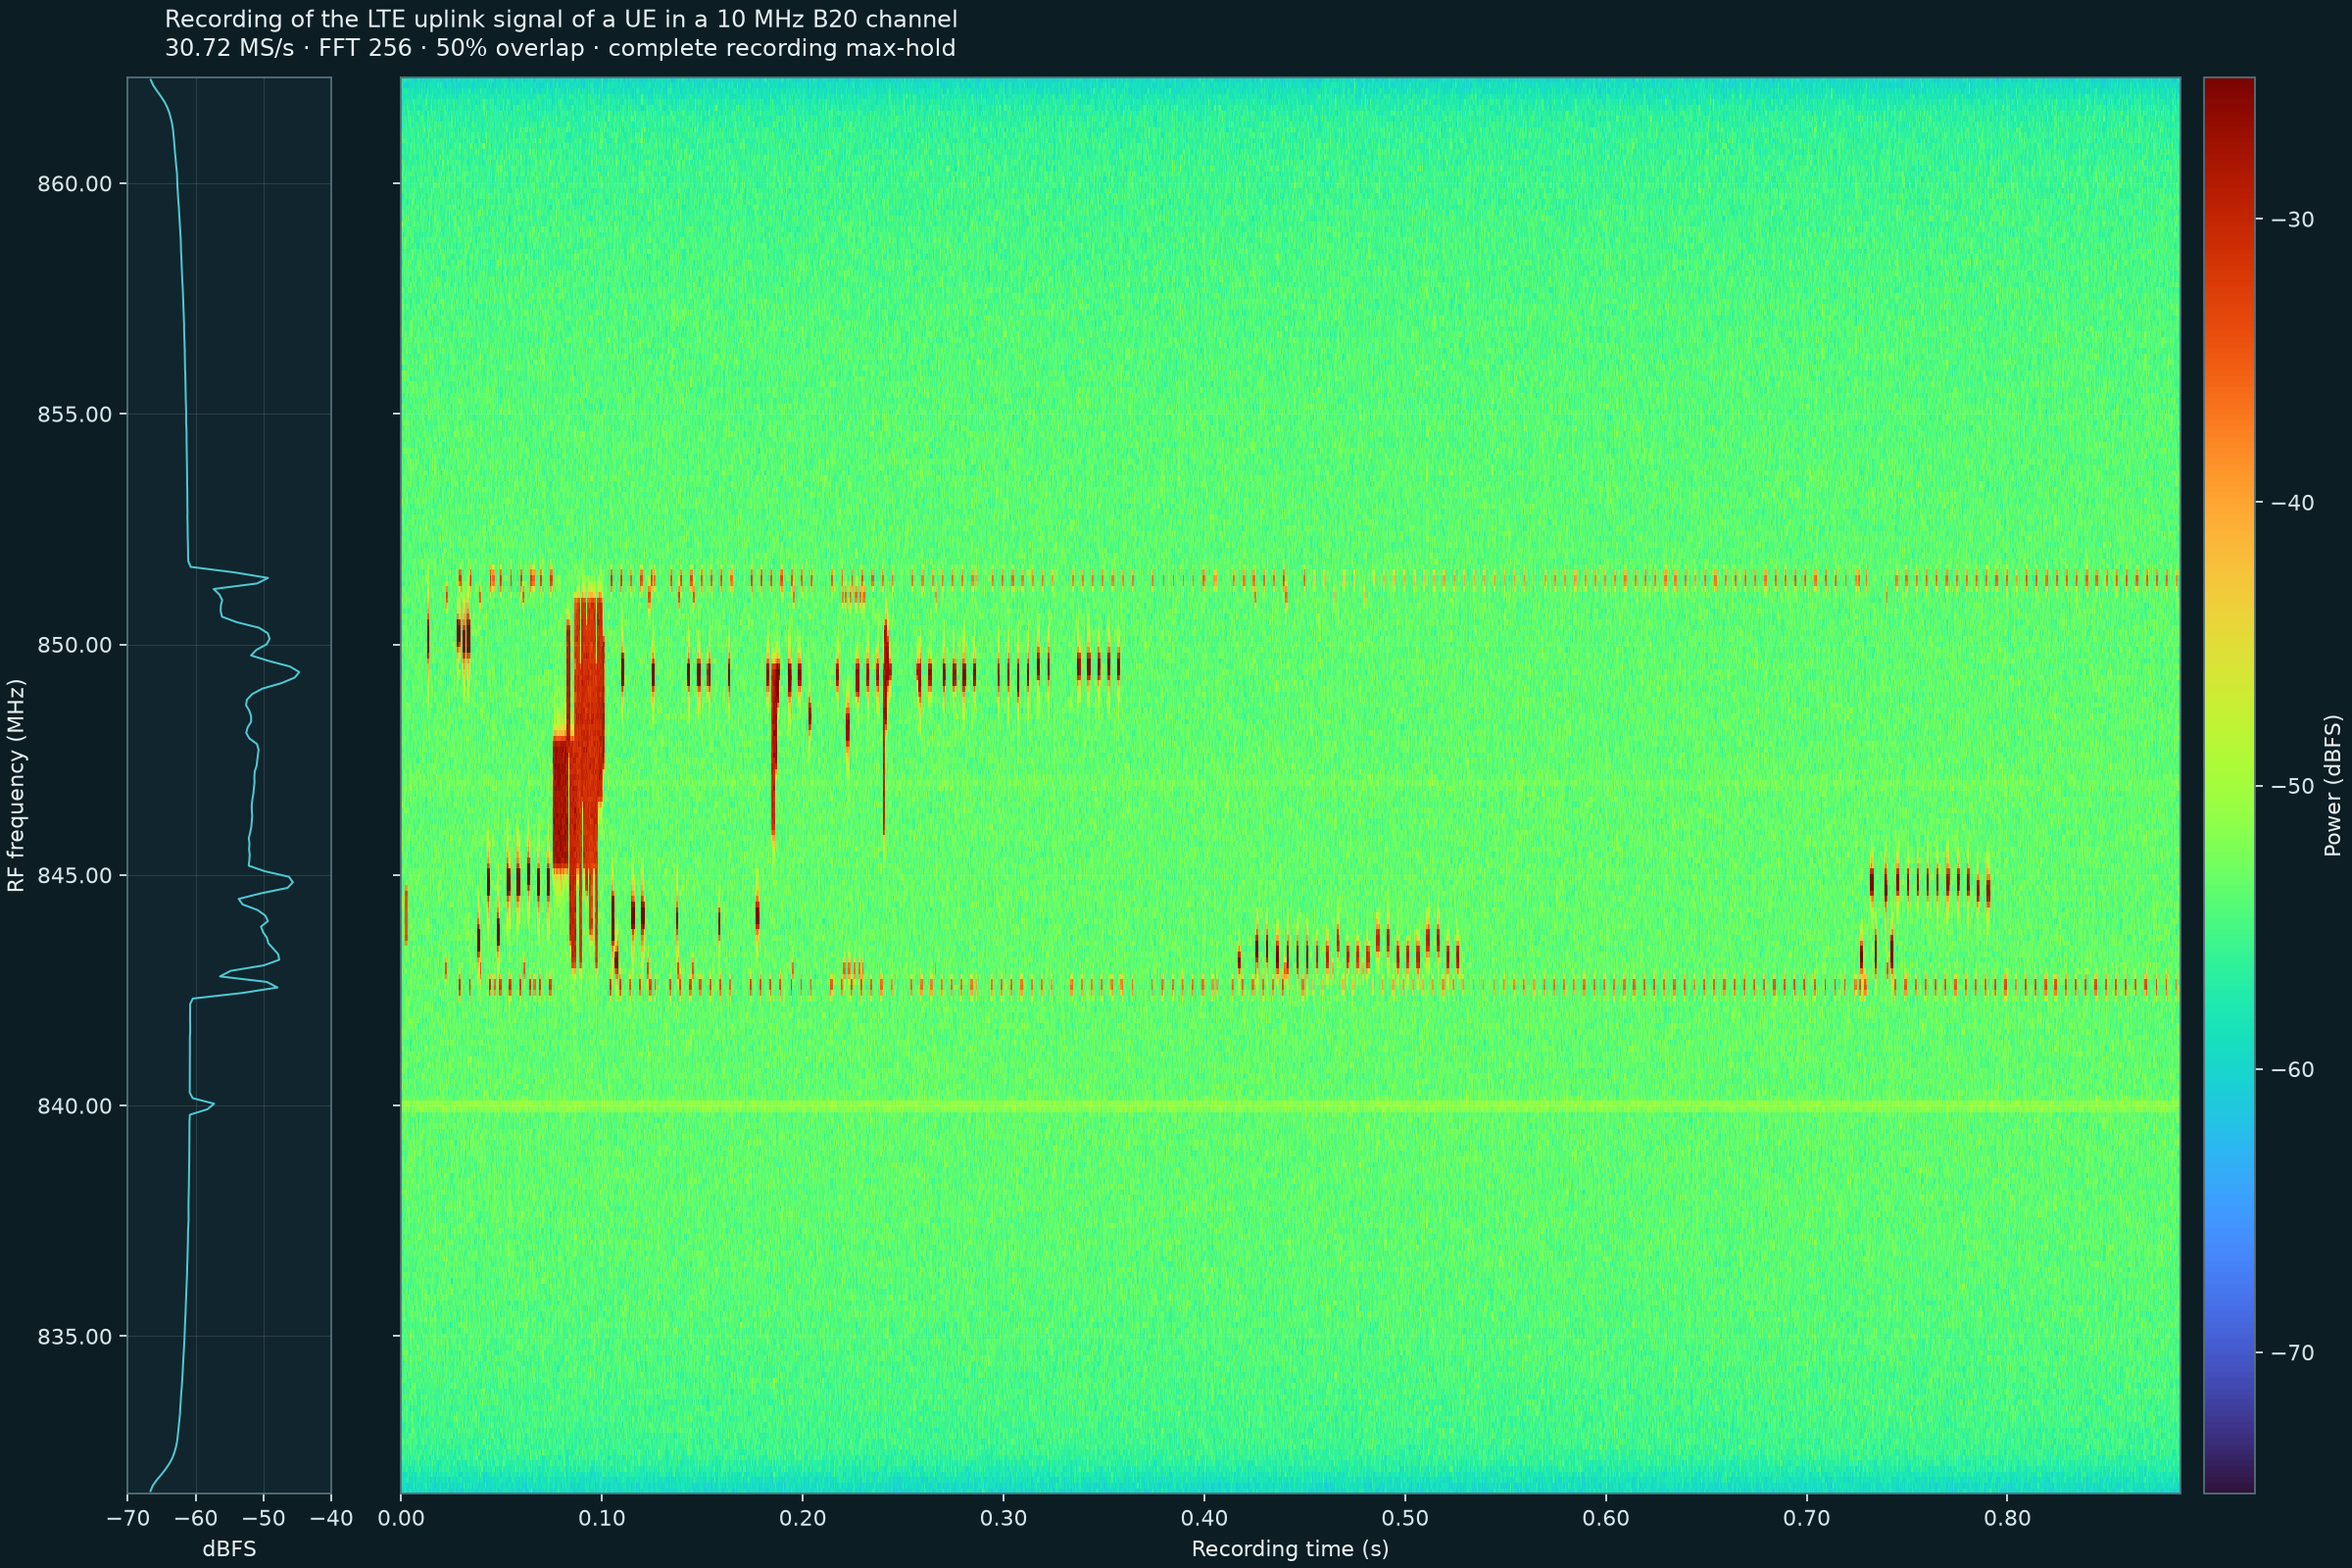
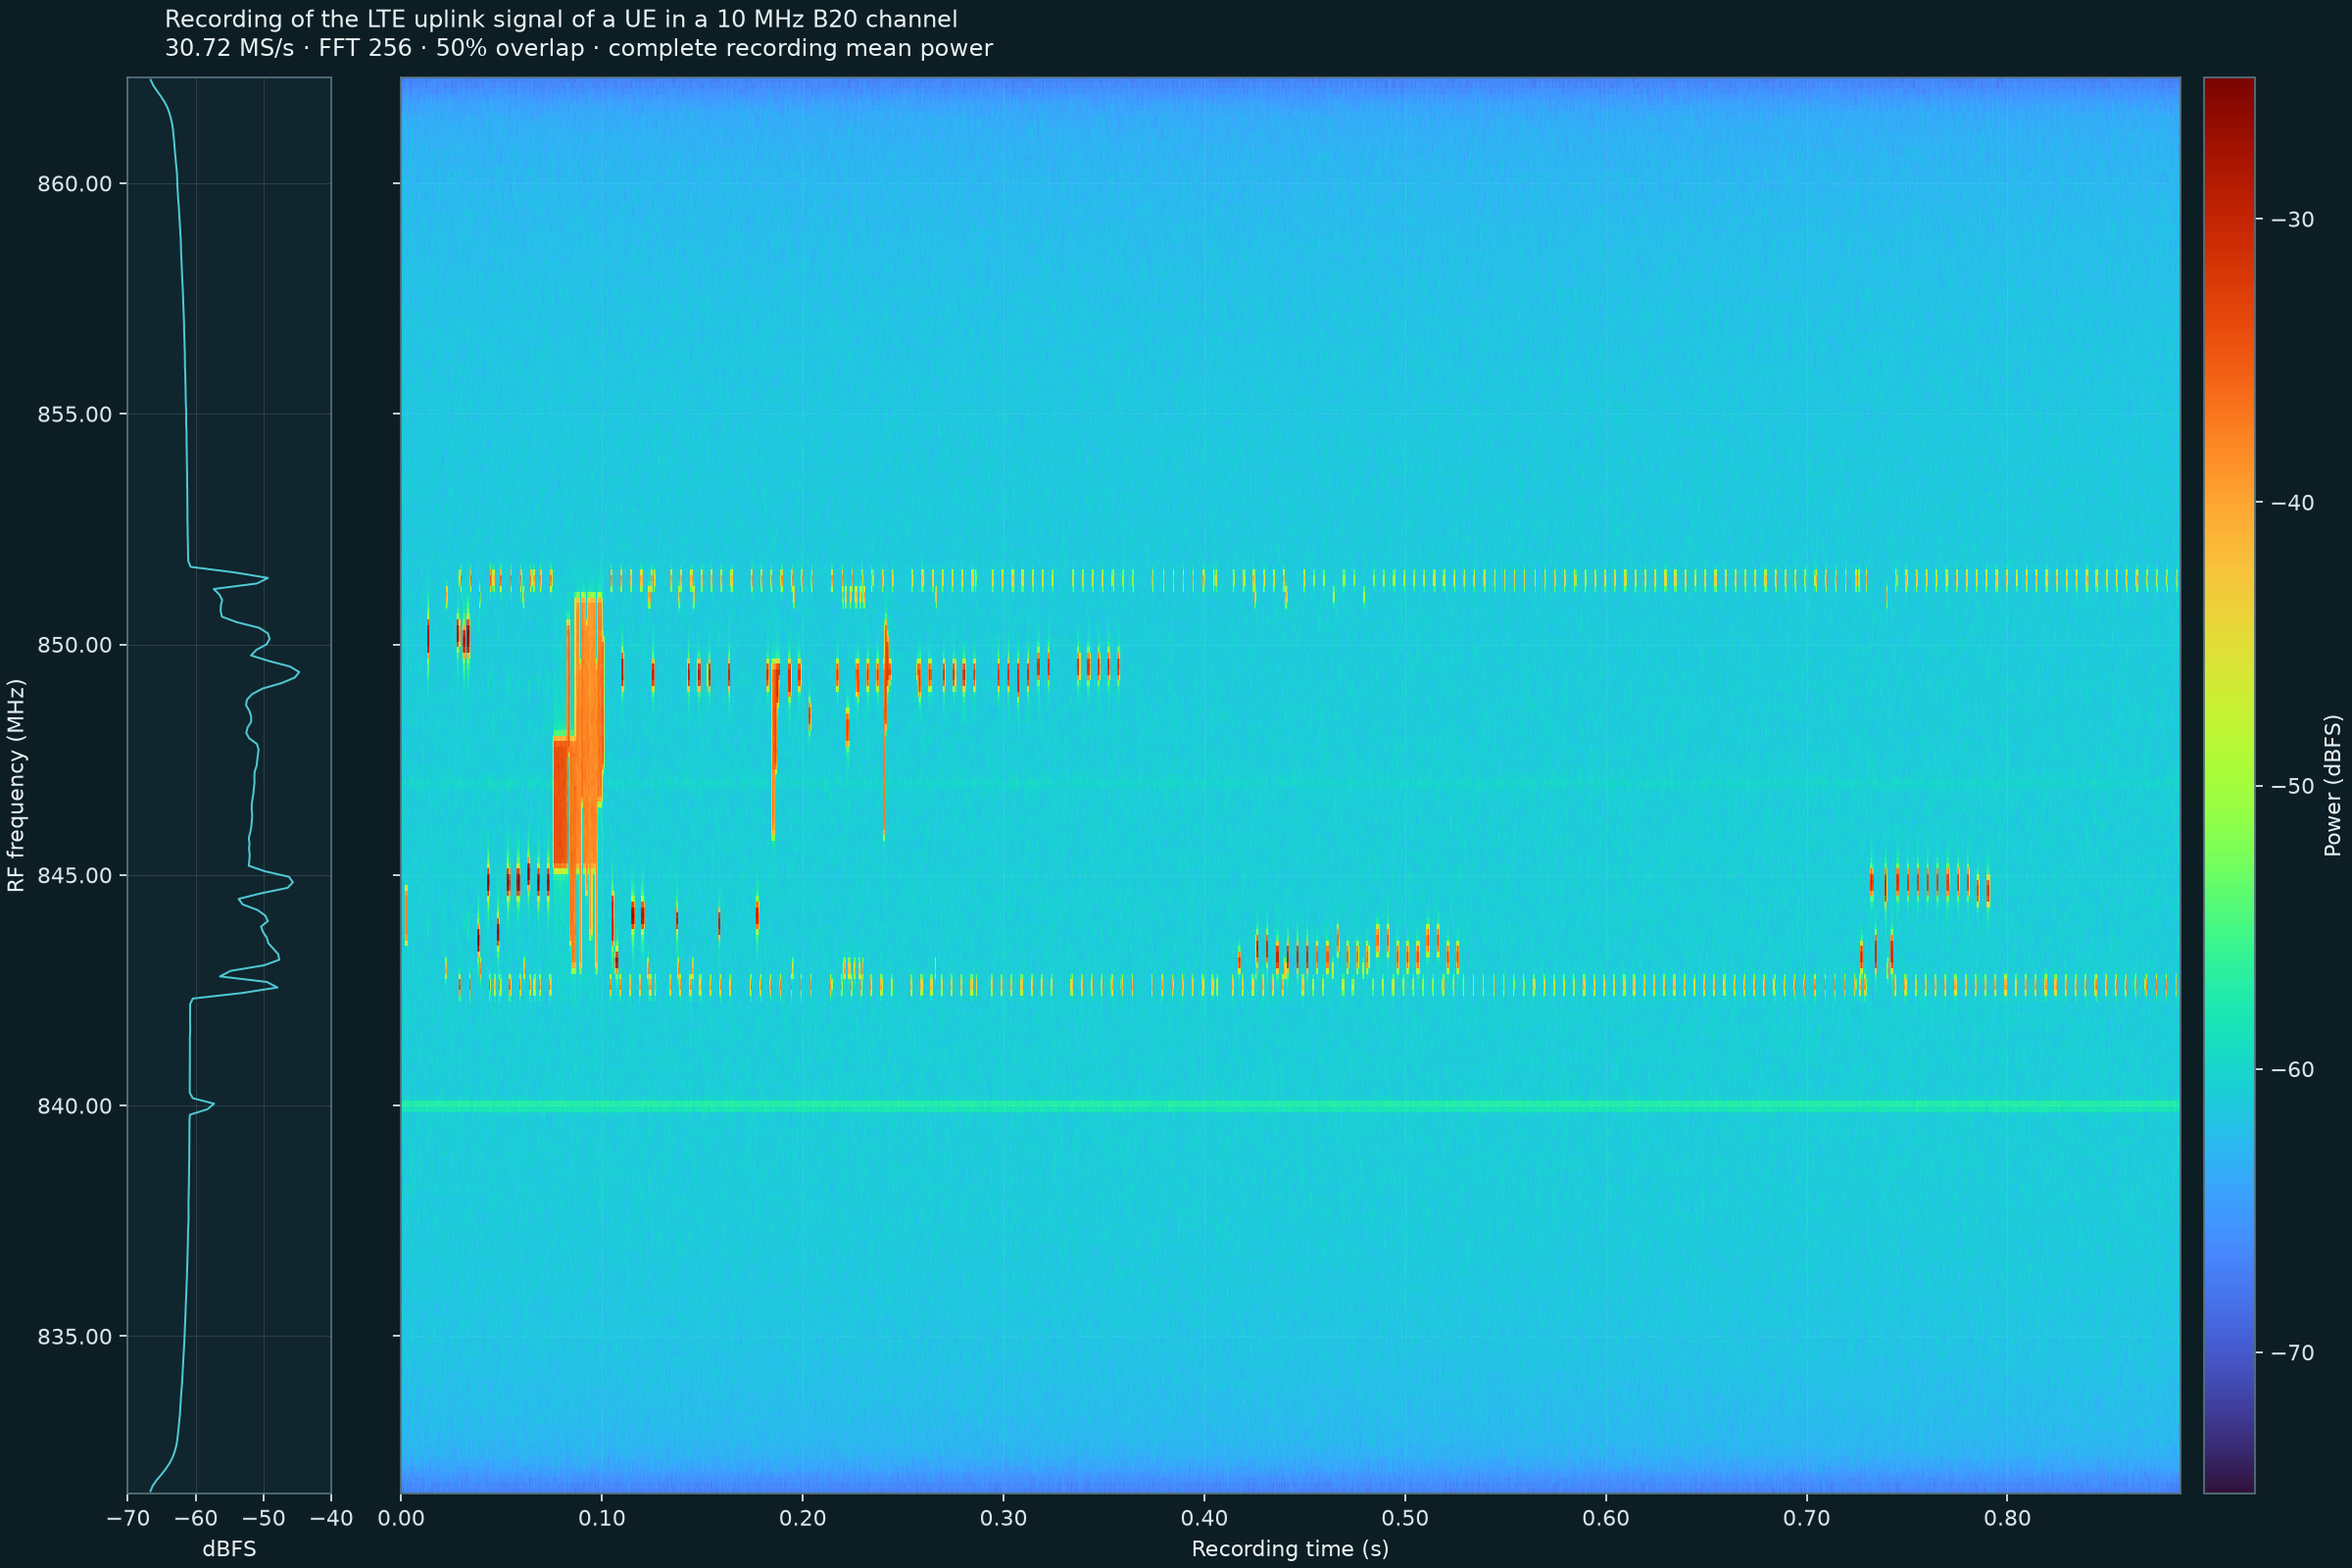
Use mean power for every waterfall aggregation

diff --git a/tests/test_sigmf_viewer.py b/tests/test_sigmf_viewer.py
@@ -9,6 +9,7 @@ import pytest
 from PIL import Image
 from sigvue import AnnotationRequest, BatchRequest
 
+from sigmf_viewer import plots as waterfall_plots
 from sigmf_viewer.analysis import analyze
 from sigmf_viewer.annotations import (
     WaterfallAnnotator,
@@ -17,6 +18,8 @@ from sigmf_viewer.annotations import (
 from sigmf_viewer.batch import (
     RENDER_WATERFALL,
     SigMFWaterfallBatch,
+    _shareable_recording_summary,
+    _stft_geometry,
     render_recording_png,
     render_recording_viewer,
 )
@@ -340,12 +343,25 @@ def test_window_reader_analysis_and_plot_keep_absolute_axes(tmp_path):
 
 def test_progressive_raster_dimensions_and_switches_follow_time_frequency_axes(
     tmp_path,
+    monkeypatch,
 ):
     metadata, _ = write_ci16(tmp_path, "raster", samples=8192)
     recording = open_recording(metadata)
     products = analyze(
         read_window(recording, 1000, 3000),
         WaterfallSettings(fft_size=256, overlap_percent=50, channel=0),
+    )
+    aggregations = []
+    add_viewport_heatmap = waterfall_plots.add_viewport_heatmap
+
+    def capture_aggregation(*args, **kwargs):
+        aggregations.append(kwargs["aggregation"])
+        return add_viewport_heatmap(*args, **kwargs)
+
+    monkeypatch.setattr(
+        waterfall_plots,
+        "add_viewport_heatmap",
+        capture_aggregation,
     )
 
     time_base = [
@@ -419,6 +435,7 @@ def test_progressive_raster_dimensions_and_switches_follow_time_frequency_axes(
     second_width, second_height = displayed_extent(second_zoom)
     assert first_width > second_width
     assert first_height > second_height
+    assert aggregations == ["mean", "mean", "mean"]
 
     direct = waterfall_figure(
         products,
@@ -548,6 +565,38 @@ def test_batch_viewer_preserves_native_stft_cells_and_is_zoomable(tmp_path):
         WaterfallSettings(256, 50, 1),
     )
     assert products.waterfall_dbfs.shape == (short_frames, 256)
+    effective_fft, _, total_frames = _stft_geometry(recording, 256, 50)
+    _, _, png_waterfall, _, _, _ = _shareable_recording_summary(
+        recording,
+        channel=1,
+        effective_fft=effective_fft,
+        total_frames=total_frames,
+        time_bins=16,
+    )
+    png_rows = np.minimum(
+        15,
+        np.arange(short_frames, dtype=np.int64) * 16 // short_frames,
+    )
+    expected_png_waterfall = np.stack(
+        [
+            10.0
+            * np.log10(
+                np.mean(
+                    np.power(
+                        10.0,
+                        products.waterfall_dbfs[png_rows == row] / 10.0,
+                    ),
+                    axis=0,
+                )
+            )
+            for row in range(16)
+        ]
+    )
+    assert np.allclose(
+        png_waterfall,
+        expected_png_waterfall,
+        atol=1e-5,
+    )
     assert (discovered_min, discovered_max) == automatic_dbfs_ranges(products)[0]
     dbfs = products.waterfall_dbfs[0]
     expected_colors = np.asarray(

diff --git a/src/sigmf_viewer/batch.py b/src/sigmf_viewer/batch.py
@@ -272,13 +272,13 @@ def _shareable_recording_summary(
     time_bins: int,
     cancel: Callable[[], None] | None = None,
 ) -> tuple[np.ndarray, np.ndarray, np.ndarray, np.ndarray, float, float]:
-    """Summarize every STFT frame into a bounded max-hold PNG raster."""
+    """Summarize every STFT frame with exact linear-power time-bin means."""
     row_count = min(time_bins, total_frames)
-    waterfall = np.full(
+    waterfall_power_sum = np.zeros(
         (row_count, effective_fft),
-        -np.inf,
-        dtype=np.float32,
+        dtype=np.float64,
     )
+    waterfall_counts = np.zeros(row_count, dtype=np.uint64)
     spectrum_power_sum = np.zeros(effective_fft, dtype=np.float64)
     histogram = np.zeros(_HISTOGRAM_EDGES.size - 1, dtype=np.uint64)
     histogram_ceiling = np.nextafter(_HISTOGRAM_MAX, _HISTOGRAM_MIN)
@@ -298,10 +298,8 @@ def _shareable_recording_summary(
             clipped,
             bins=_HISTOGRAM_EDGES,
         )[0].astype(np.uint64)
-        spectrum_power_sum += np.sum(
-            np.power(10.0, dbfs / 10.0),
-            axis=0,
-        )
+        power = np.power(10.0, dbfs / 10.0)
+        spectrum_power_sum += np.sum(power, axis=0)
         indexes = np.arange(
             first_index,
             first_index + dbfs.shape[0],
@@ -313,12 +311,19 @@ def _shareable_recording_summary(
         )
         for row in np.unique(rows):
             selected = rows == row
-            waterfall[int(row)] = np.maximum(
-                waterfall[int(row)],
-                np.max(dbfs[selected], axis=0),
+            waterfall_power_sum[int(row)] += np.sum(
+                power[selected],
+                axis=0,
             )
-    if not np.all(np.isfinite(waterfall)):
+            waterfall_counts[int(row)] += int(np.count_nonzero(selected))
+    if np.any(waterfall_counts == 0):
         raise ValueError("shareable PNG raster contains an empty time bin")
+    waterfall = 10.0 * np.log10(
+        np.maximum(
+            waterfall_power_sum / waterfall_counts[:, None],
+            1e-20,
+        )
+    )
     spectrum = 10.0 * np.log10(
         np.maximum(spectrum_power_sum / total_frames, 1e-20)
     )
@@ -464,7 +469,7 @@ def render_recording_png(
         (
             f"{title}\n"
             f"{recording.sample_rate / 1e6:g} MS/s · FFT {effective_fft} · "
-            f"{overlap_percent}% overlap · complete recording max-hold"
+            f"{overlap_percent}% overlap · complete recording mean power"
         ),
         x=0.07,
         ha="left",
@@ -493,7 +498,7 @@ def render_recording_png(
                 "Title": title,
                 "Description": (
                     "Complete recording; every centered STFT frame contributes "
-                    "to a bounded time bin using power-domain max-hold."
+                    "to a bounded time bin using arithmetic mean power."
                 ),
             },
         )

diff --git a/src/sigmf_viewer/view.py b/src/sigmf_viewer/view.py
@@ -162,15 +162,6 @@ def view(data: SigMFWindow, ui: UI) -> None:
                 options=(128, 256, 512, 1024),
             )
         )
-        aggregation = str(
-            ui.select(
-                "render_aggregation",
-                label="Display-cell aggregation",
-                default="mean",
-                options=("max", "mean", "median"),
-            )
-        )
-
     global_metadata = data.recording.metadata["global"]
     recording_title = str(
         global_metadata.get("core:description")
@@ -197,7 +188,6 @@ def view(data: SigMFWindow, ui: UI) -> None:
             progressive_render=progressive_render,
             render_width=render_width,
             render_height=render_height,
-            aggregation=aggregation,
             annotations=(
                 read_sigmf_annotations(data.recording) if show_annotations else ()
             ),

diff --git a/src/sigmf_viewer/plots.py b/src/sigmf_viewer/plots.py
@@ -66,7 +66,6 @@ def waterfall_figure(
     progressive_render: bool = True,
     render_width: int = 1024,
     render_height: int = 512,
-    aggregation: str = "mean",
     annotations: tuple[Annotation, ...] = (),
     annotation_color: str = "#ffffff",
     annotation_width: float = 1.5,
@@ -130,7 +129,7 @@ def waterfall_figure(
             viewport=viewport,
             render_width=render_width,
             render_height=render_height,
-            aggregation=aggregation,
+            aggregation="mean",
             row=1,
             col=2,
             **heatmap,

diff --git a/README.md b/README.md
@@ -28,9 +28,10 @@ identify without taking vertical space away from recording time.
 Progressive rasterization keeps large recordings responsive while scrubbing
 and zooming. The viewer renders only the time/frequency region currently being
 shown, bounded to the available display resolution, and rerasterizes after
-each viewport change. This changes only the displayed heatmap cells: source
-samples, STFT values, axes, annotations, and batch output retain their full
-accuracy.
+each viewport change. Every grouped display cell is the arithmetic mean of
+linear power, converted to dBFS only after averaging. This changes only the
+displayed heatmap cells: source samples, STFT values, axes, annotations, and
+batch output retain their full accuracy.
 
 ![Waterfall with the shared-axis average spectrum and full-recording scrubber](figures/multiple-applications-colors-features.png)
 
@@ -55,14 +56,15 @@ starting the interactive server:
   configured native-cell limit.
 
 Every STFT frame contributes to the PNG. When the recording contains more
-time frames than PNG columns, the renderer uses max-hold within each column so
-short events are retained rather than skipped. The HTML opens at a readable
-whole-recording view and progressively selects finer tiles until every STFT
-frame and FFT bin maps to an exact native pixel. Dragging or a two-finger
-horizontal touchpad gesture scrubs through time; Shift+scroll provides the
-same pan on a conventional wheel. Its **Full PNG** control switches to the
-matching shareable image. Sigvue's results browser lists both representations
-and previews the PNG directly.
+time frames than PNG columns, each displayed cell is the arithmetic mean of
+linear power across its contributing frames, converted back to dBFS only for
+coloring. The HTML uses that same mean-power rule at every grouped tile level.
+It progressively selects finer tiles until every STFT frame and FFT bin maps
+to an exact native pixel. Dragging or a two-finger horizontal touchpad gesture
+scrubs through time; Shift+scroll provides the same pan on a conventional
+wheel. Its **Full PNG** control switches to the matching shareable image.
+Sigvue's results browser lists both representations and previews the PNG
+directly.
 
 The color scale is discovered independently for each recording with the same
 robust percentile and 5 dB rounding rule used by the interactive waterfall.
@@ -220,9 +222,9 @@ The PNG is always produced. Its complete-duration heatmap and left-side
 average spectrum use fixed dimensions controlled by `batch_png_time_bins`,
 `batch_png_width_pixels`, and `batch_png_height_pixels`. The tiled HTML omits
 the spectrum strip to devote its full canvas to exact waterfall inspection.
-Coarser HTML levels use the arithmetic mean of linear power for every grouped
-STFT cell, then convert that mean back to dBFS for coloring. Maximum zoom loads
-the native, unaggregated STFT cells.
+Both PNG time bins and coarser HTML levels use the arithmetic mean of linear
+power for every grouped STFT cell, then convert that mean back to dBFS for
+coloring. Maximum zoom loads the native, unaggregated STFT cells.
 `batch_colormap` controls both representations.
 `batch_max_native_cells` prevents an accidental multi-gigabyte render
 (75 million by default). The included LTE captures fit under that bound.
